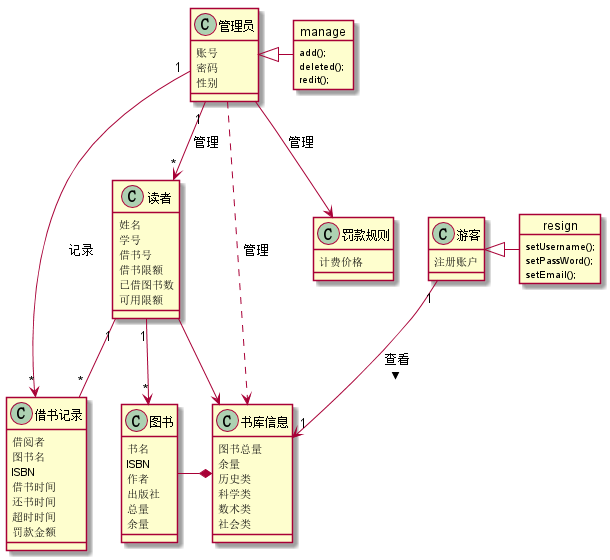
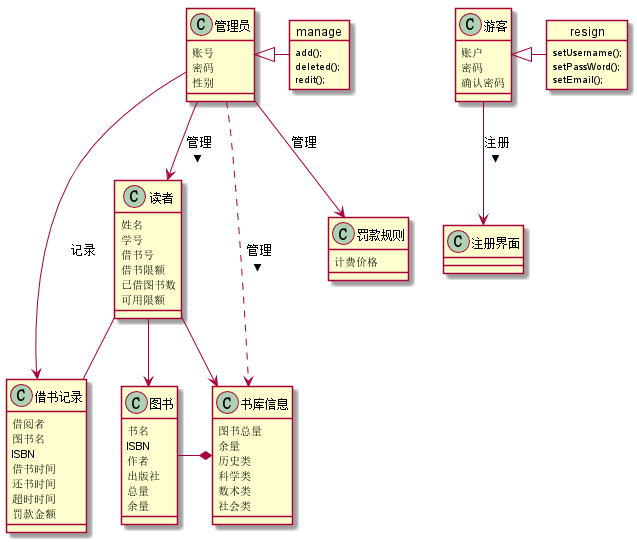
updata

diff --git a/test3/Readme.md b/test3/Readme.md
@@ -24,9 +24,8 @@ class 管理员{
 }
 
 class 游客{
- 账户
- 密码
- 确认密码}
+ 注册账户
+}
 
 class 书库信息{
 图书总量
@@ -123,9 +122,7 @@ class 管理员{
 <pre>
 @startuml
 class 游客{
- 账户：123
- 密码：qwe
- 确认密码：qwe
+ 注册账户
 }
 @enduml
 </pre>
